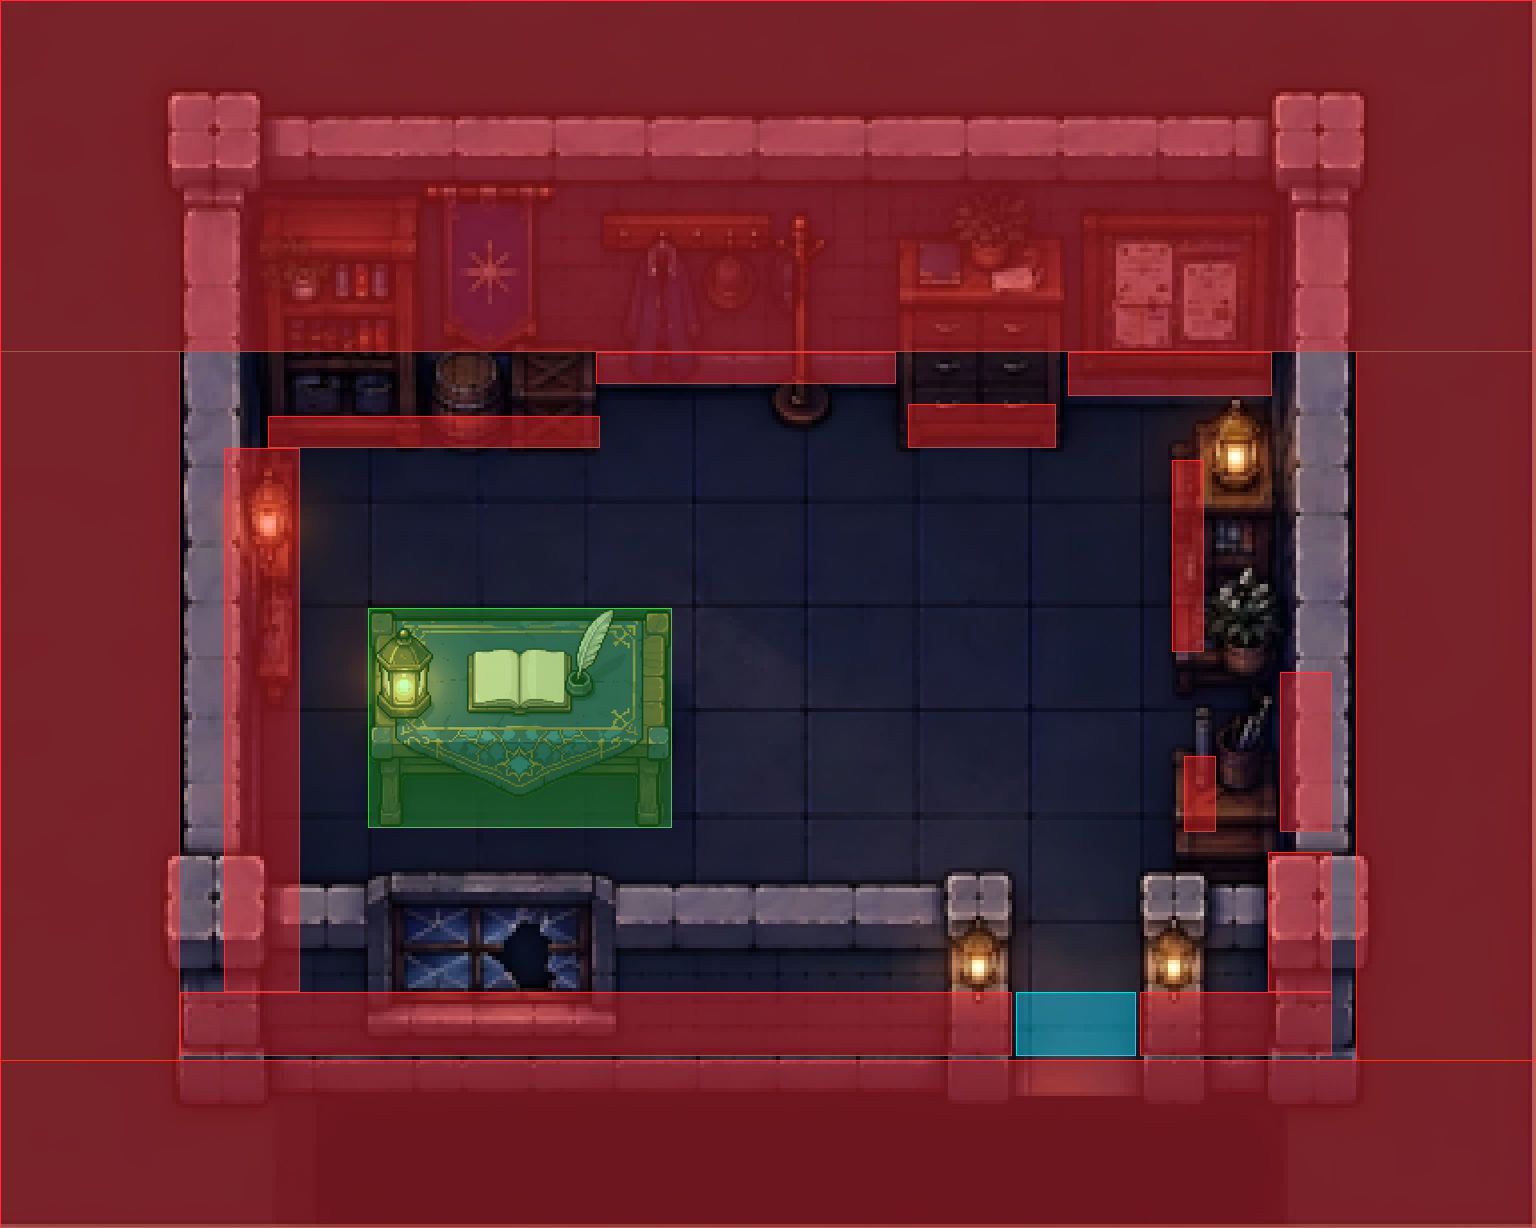
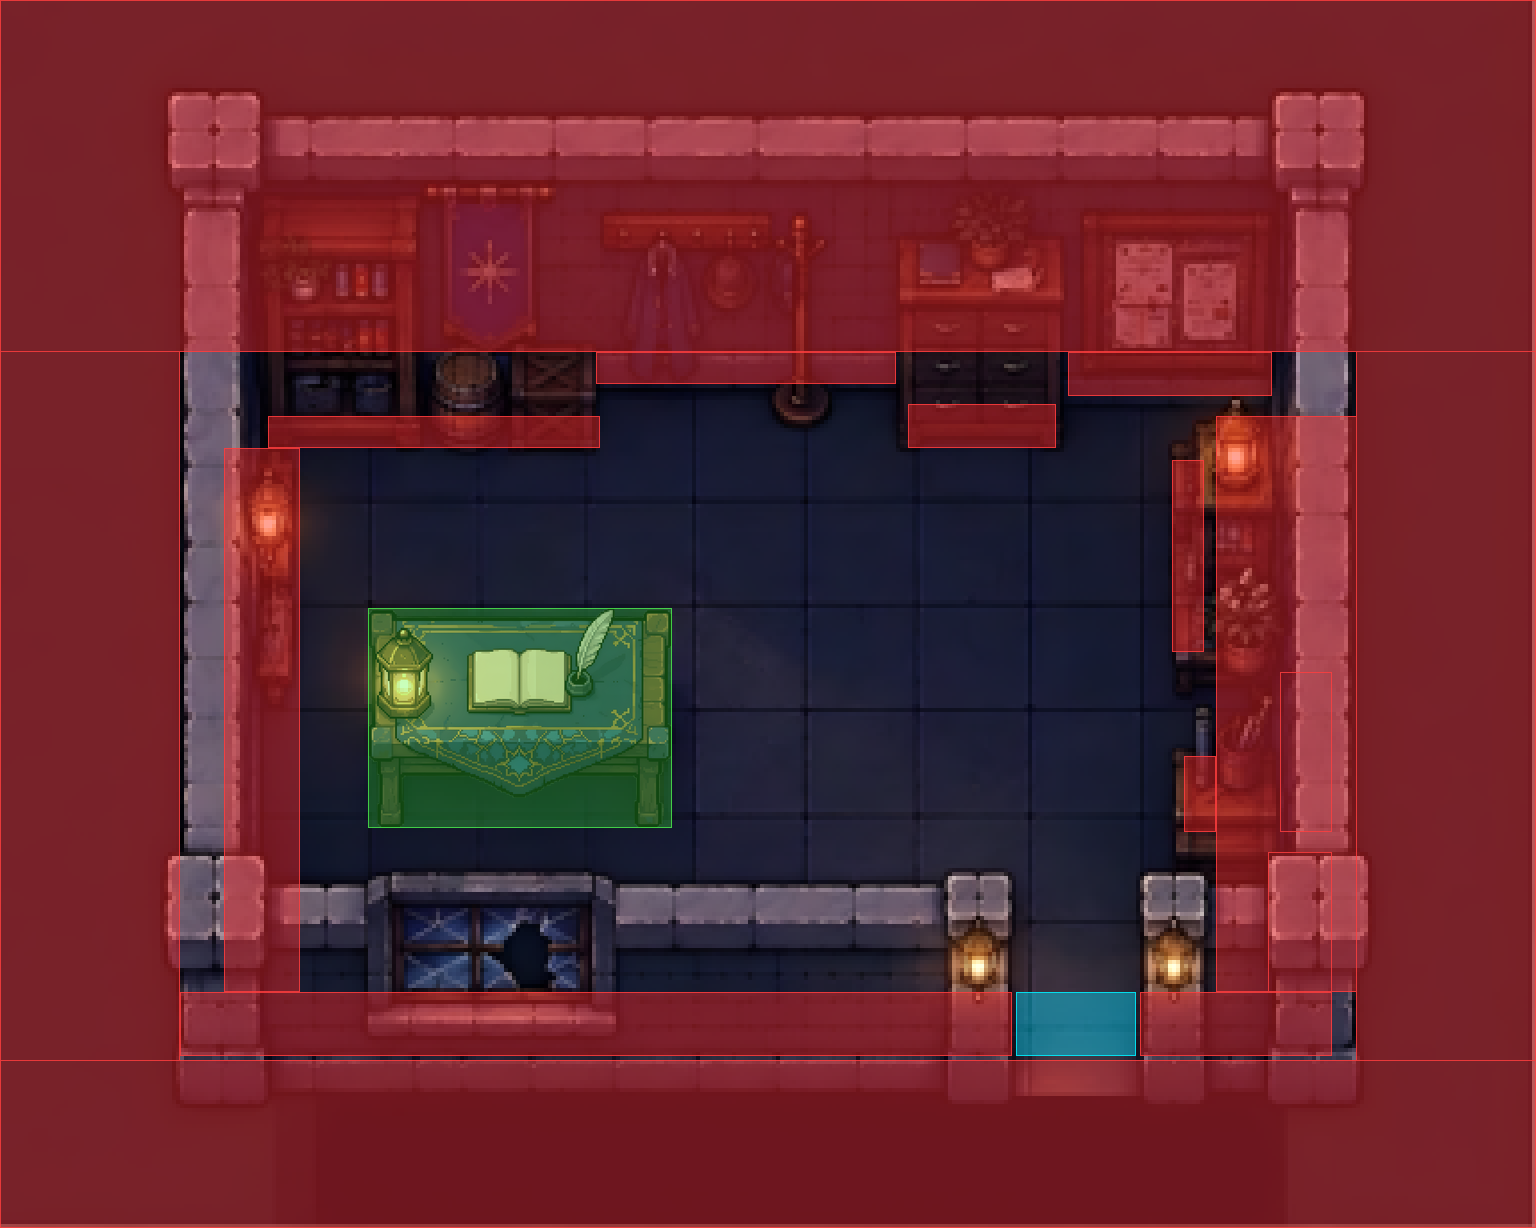
fix(map): 门卫室三处实测修正——破窗白色占位清透明、桌子补侧壁、右侧家具列封缺口

Changed region(s): [[0.7812, 0.3404, 0.9062, 0.8046]]

diff --git a/tools/make_gatehouse_assets.py b/tools/make_gatehouse_assets.py
@@ -28,6 +28,22 @@ DESK_SCALE = 0.28
 # 阈值取 765-30=735 能把书页留下、把白底的柔和阴影（sum≈740+）挡在外面。
 WHITE_TOLERANCE = 30
 
+# 墙层的破窗：美术导出时「挖空」落成了**不透明纯白占位**（2026-09-26 她报的
+# 「窗户黑白块」）。背景同位置是正确的灰黑夜色，把这块的近白像素改成全透明
+# 就能透出正确的底。区域是量出来的破洞包围盒，别扩大到木框和石帽沿。
+BROKEN_WINDOW = (1490, 2740, 1670, 2970)   # x0, y0, x1, y1
+HOLE_WHITE_SUM = 640                        # RGB 和超过它算「白色占位」
+
+
+def fix_broken_window(wall: Image.Image) -> Image.Image:
+    a = np.asarray(wall).copy()
+    x0, y0, x1, y1 = BROKEN_WINDOW
+    reg = a[y0:y1, x0:x1]
+    s = reg[..., :3].astype(np.int16).sum(axis=2)
+    reg[..., 3] = np.where(s > HOLE_WHITE_SUM, 0, reg[..., 3])
+    a[y0:y1, x0:x1] = reg
+    return Image.fromarray(a, "RGBA")
+
 
 def desk_alpha(tab: Image.Image) -> np.ndarray:
     t = np.asarray(tab).astype(np.int16)
@@ -49,6 +65,8 @@ def main() -> int:
     full.save(os.path.join(ROOT, "art", "map", "gatehouse.png"))
 
     # 前景层：底部矮墙 + 门柱。与背景同尺寸，工具按 OVERLAY_Z 铺。
+    # 破洞处的白色占位先清掉（见 fix_broken_window 的说明）。
+    wall = fix_broken_window(wall)
     wall.save(os.path.join(ROOT, "art", "map", "gatehouse_wall.png"))
 
     # 桌子切图

diff --git a/docs/开发纪要.md b/docs/开发纪要.md
@@ -7286,3 +7286,18 @@ caption 事件，暂时哪也不去）。
 
 **没做的**：桌子和门以外的交互（书架、衣柜、布告板等的 `line`）留给策划；
 门卫室没有配音乐；桌上档案特写图（1062×992）暂未用上，留作交互素材。
+
+### 88.1 她实测报的三处（同日修）
+
+1. **破窗白色占位**：墙层里破洞被导出成**不透明纯白**（20882 像素的
+   255,255,255,255），游戏里是一块白斑。背景同位置是正确的灰黑夜色——
+   `make_gatehouse_assets.py` 加了 `fix_broken_window()`，把破洞包围盒内
+   近白像素全透明，透出背景。**美术终稿时墙层请直接把破洞挖空**，别留白。
+2. **桌子碰撞箱太矮**：原来只有前腿带 [96,192,69,11]，人能从桌子东西两侧
+   的行带里走进桌子的像素范围（站在桌子旁边却被盖住）。补两条侧壁
+   [92,152,4,41]、[164,152,4,41]，桌子 footprint 除桌后口袋（从北边进）
+   外全部实体。
+3. **右侧家具有缺口**：右列四块墙之间留着一条约 16px 的竖缝
+   （x304-320, y104-213），人能从南边一路钻进花盆书架。整列封成
+   [304,104,36,144]。
+
